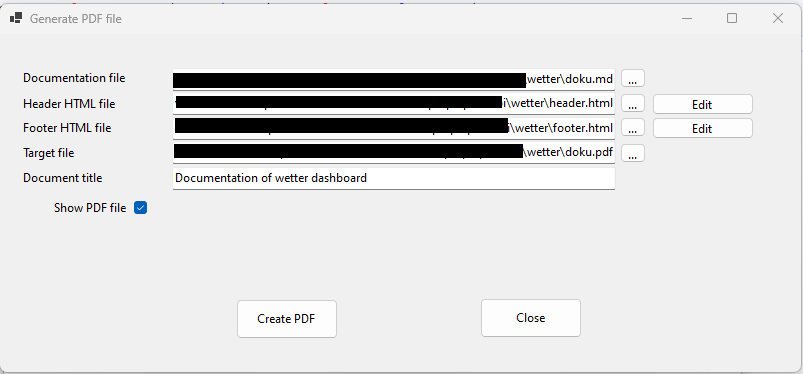
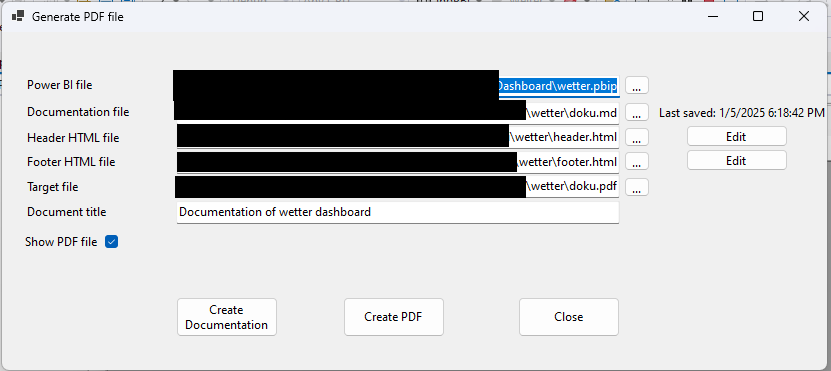
upd: documentation

diff --git a/README.md b/README.md
@@ -10,61 +10,24 @@ Currently the GUI is available in English and German.
 
 ## Usage
 
-### Replace PowerQuery parameters and generate documentation markdown file
+How to use the application is in a [separate tutorial](/sources_documentation/HowToUse.md).
 
-![Screenshot Replace TDML](/sources_documentation/replace_tmdl.png)
-
-#### Replace PowerQuery parameters
-
-Orginal defines the folder SemanticModel or Dataset from the dashboard folder.
-
-File with replacements defines the path to the file with the replacement information.
-
-Target folder defines the folder where the dashboard with replacements is stored
-
-Customer extension defines a file extention to identify the orginal and replace expression files
-
-Use 'Replace' to start the replacement. This will create a copy of the dashboard with the replaced PowerQuery paramters and a zip file of the dashboard folder.
-
-
-#### Generation of documentation markdown file
-
-Select Original and define path and name of markdown file. 
-
-Use 'Create documentation' to create markdown file
-
-'Create PDF' opens dialog for pdf generation
-
-### Generate PDF file
-
-![Screenshot Create pdf file](/sources_documentation/create_pdf.png)
-
-Documentation file defines the path to the documentation markdown file (see above).
-
-Header HTML file defines the path to an html containing formatting information for the pdf file header. Is needed if the Document title is used.
-
-Footer HTML file defines the path to an html containing formatting information for the pdf file heafooter. Is needed if the page numbering should be given.
-
-Example files can be found in /inoPBI/inoPBI/pdfsettings.
-
-Target file defines the path to the pdf file.
-
-Document tile defines the text for the document header. Header HTML file is needed to display the text in the header.
-
-Show PDF file defines if the pdf file is opend after the generation of the file.
-
-'Create PDF' generated the documentation pdf file.
 
 ## Installation
 
 Download the latest release from [https://github.com/INOPIAE/inoPBI/releases/](https://github.com/INOPIAE/inoPBI/releases/).
 
-Unzip the zip file and use `setup.exe` to install the application inoPBI.
+Unzip the zip file and use `inoPBI.exe` to start the application inoPBI.
 
-![Screenshot Installation](/sources_documentation/install.png)
+![Screenshot Start I](/sources_documentation/first_use_1.png)
 
-During the installation you are prompted for an untrusted issuer. This is due to the fact that the certificate is not issued by a CA located in the general trust stores.
+During the first start you are prompted for an untrusted issuer. This is due to the fact that the certificate is not issued by a CA located in the general trust stores.
 
+Use `further indformation` to continue.
+
+![Screenshot Start II](/sources_documentation/first_use_2.png)
+
+Use `Continue` finish the start process.
 
 ## Dependencies
 

diff --git a/sources_documentation/HowToUse.md b/sources_documentation/HowToUse.md
@@ -1,0 +1,79 @@
+# How to use inoPBI
+
+During the start of the application it is checked if a project is defined. If not the Select Project dialog is opened.
+
+# Menue
+## File
+
+### Power BI Tools
+
+![Screenshot Create pdf file](/sources_documentation/powerbitools.png)
+
+#### Select Project
+
+TBD
+
+#### Edit Footer/Header
+
+![Screenshot Edit Footer/Header](/sources_documentation/edithtml.png)
+
+#### Documentation
+
+![Screenshot Create pdf file](/sources_documentation/create_pdf.png)
+
+##### Create documentation 
+
+To create the documentation file give the path to the Power BI project file and define the location where the documentation file should be stored.
+
+Use `Create Documenation` to generate the documentation file.
+
+#### Create PDF 
+
+Documentation file defines the path to the documentation markdown file (see above).
+
+Header HTML file defines the path to an html containing formatting information for the pdf file header. Is needed if the Document title is used.
+
+Footer HTML file defines the path to an html containing formatting information for the pdf file heafooter. Is needed if the page numbering should be given.
+
+Example files can be found in [/inoPBI/inoPBI/pdfsettings](/inoPBI/inoPBI/pdfsettings).
+
+Target file defines the path to the pdf file.
+
+Document tile defines the text for the document header. Header HTML file is needed to display the text in the header.
+
+Show PDF file defines if the pdf file is opend after the generation of the file.
+
+`Create PDF` generated the documentation pdf file.
+
+#### Replacement TMDL - Replace PowerQuery parameters and generate documentation markdown file
+
+![Screenshot Replace TDML](/sources_documentation/replace_tmdl.png)
+
+##### Replace PowerQuery parameters
+
+Orginal defines the folder SemanticModel or Dataset from the dashboard folder.
+
+File with replacements defines the path to the file with the replacement information.
+
+Target folder defines the folder where the dashboard with replacements is stored
+
+Customer extension defines a file extention to identify the orginal and replace expression files
+
+Use `Replace` to start the replacement. This will create a copy of the dashboard with the replaced PowerQuery paramters and a zip file of the dashboard folder.
+
+
+#### Generation of documentation markdown file
+
+Select Original and define path and name of markdown file. 
+
+Use `Create documentation` to create markdown file
+
+`Create PDF` opens dialog for pdf generation
+
+### Tools
+
+![Screenshot Settings](/sources_documentation/settings.png)
+
+### Windows
+
+### Help
